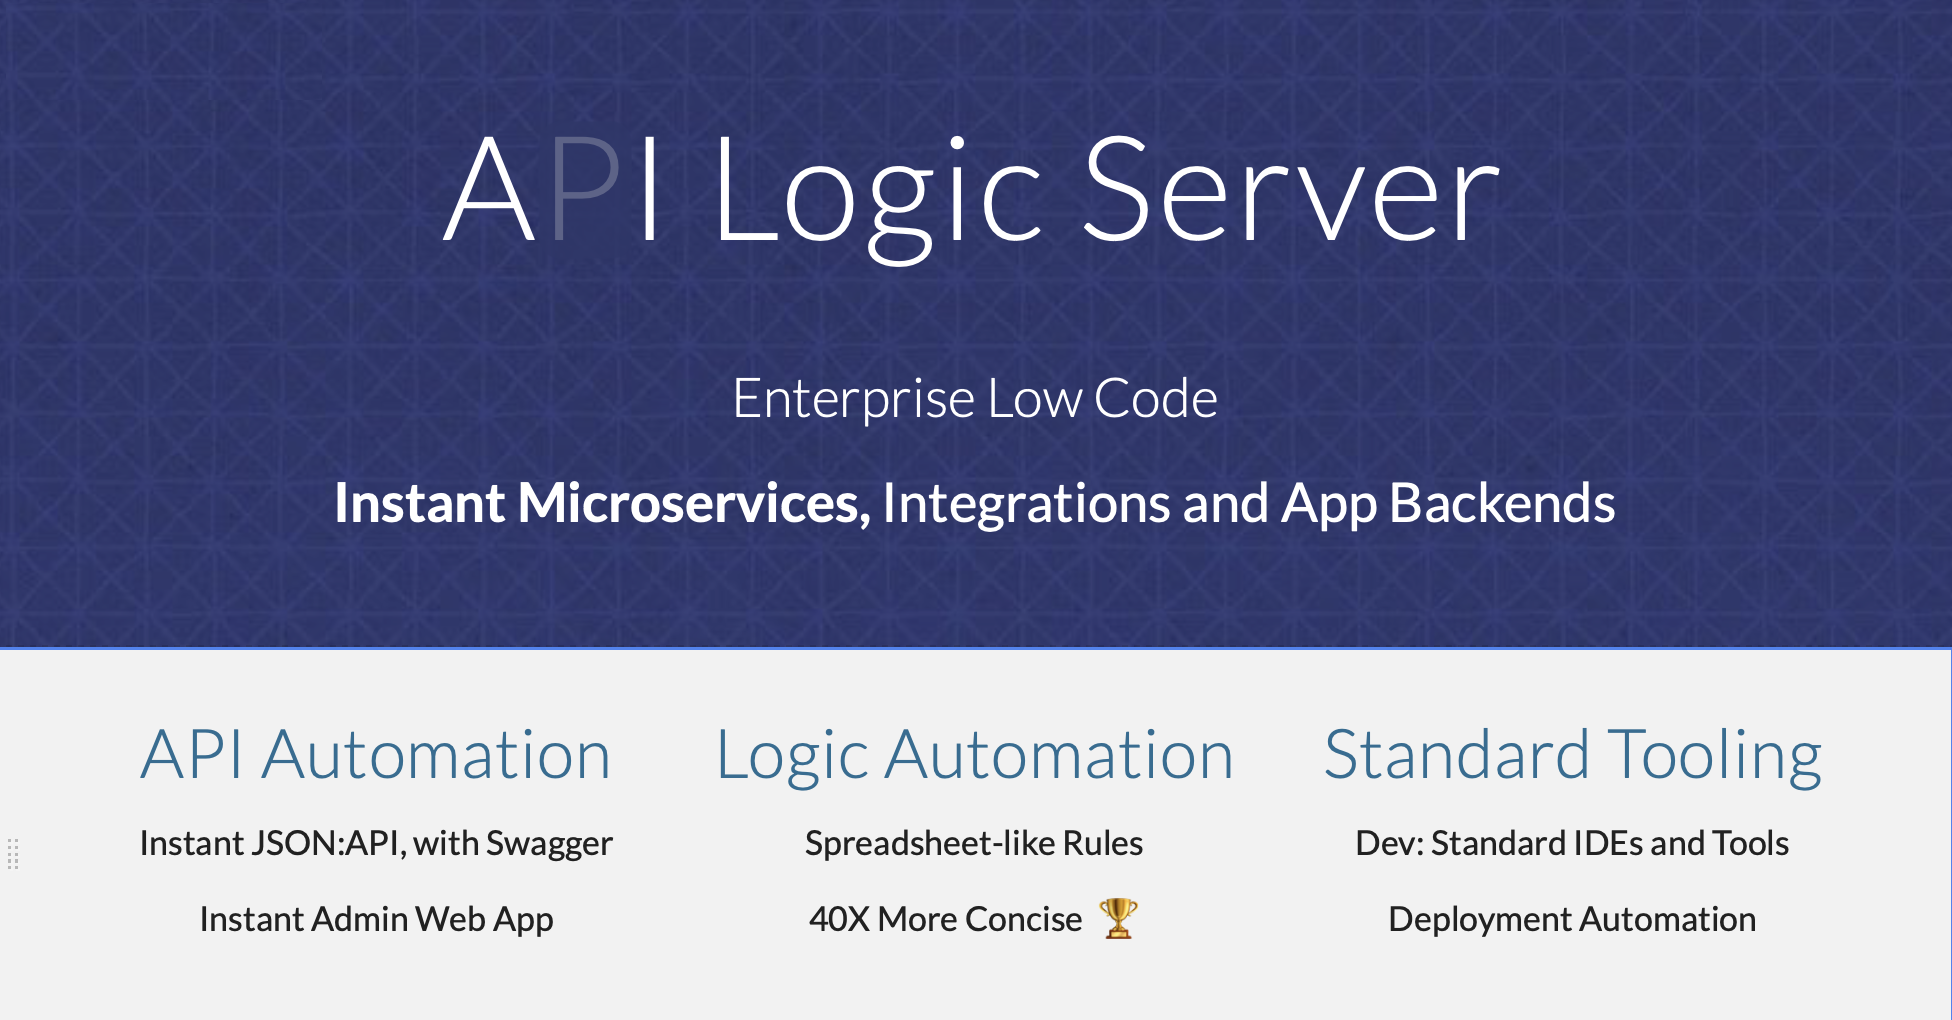
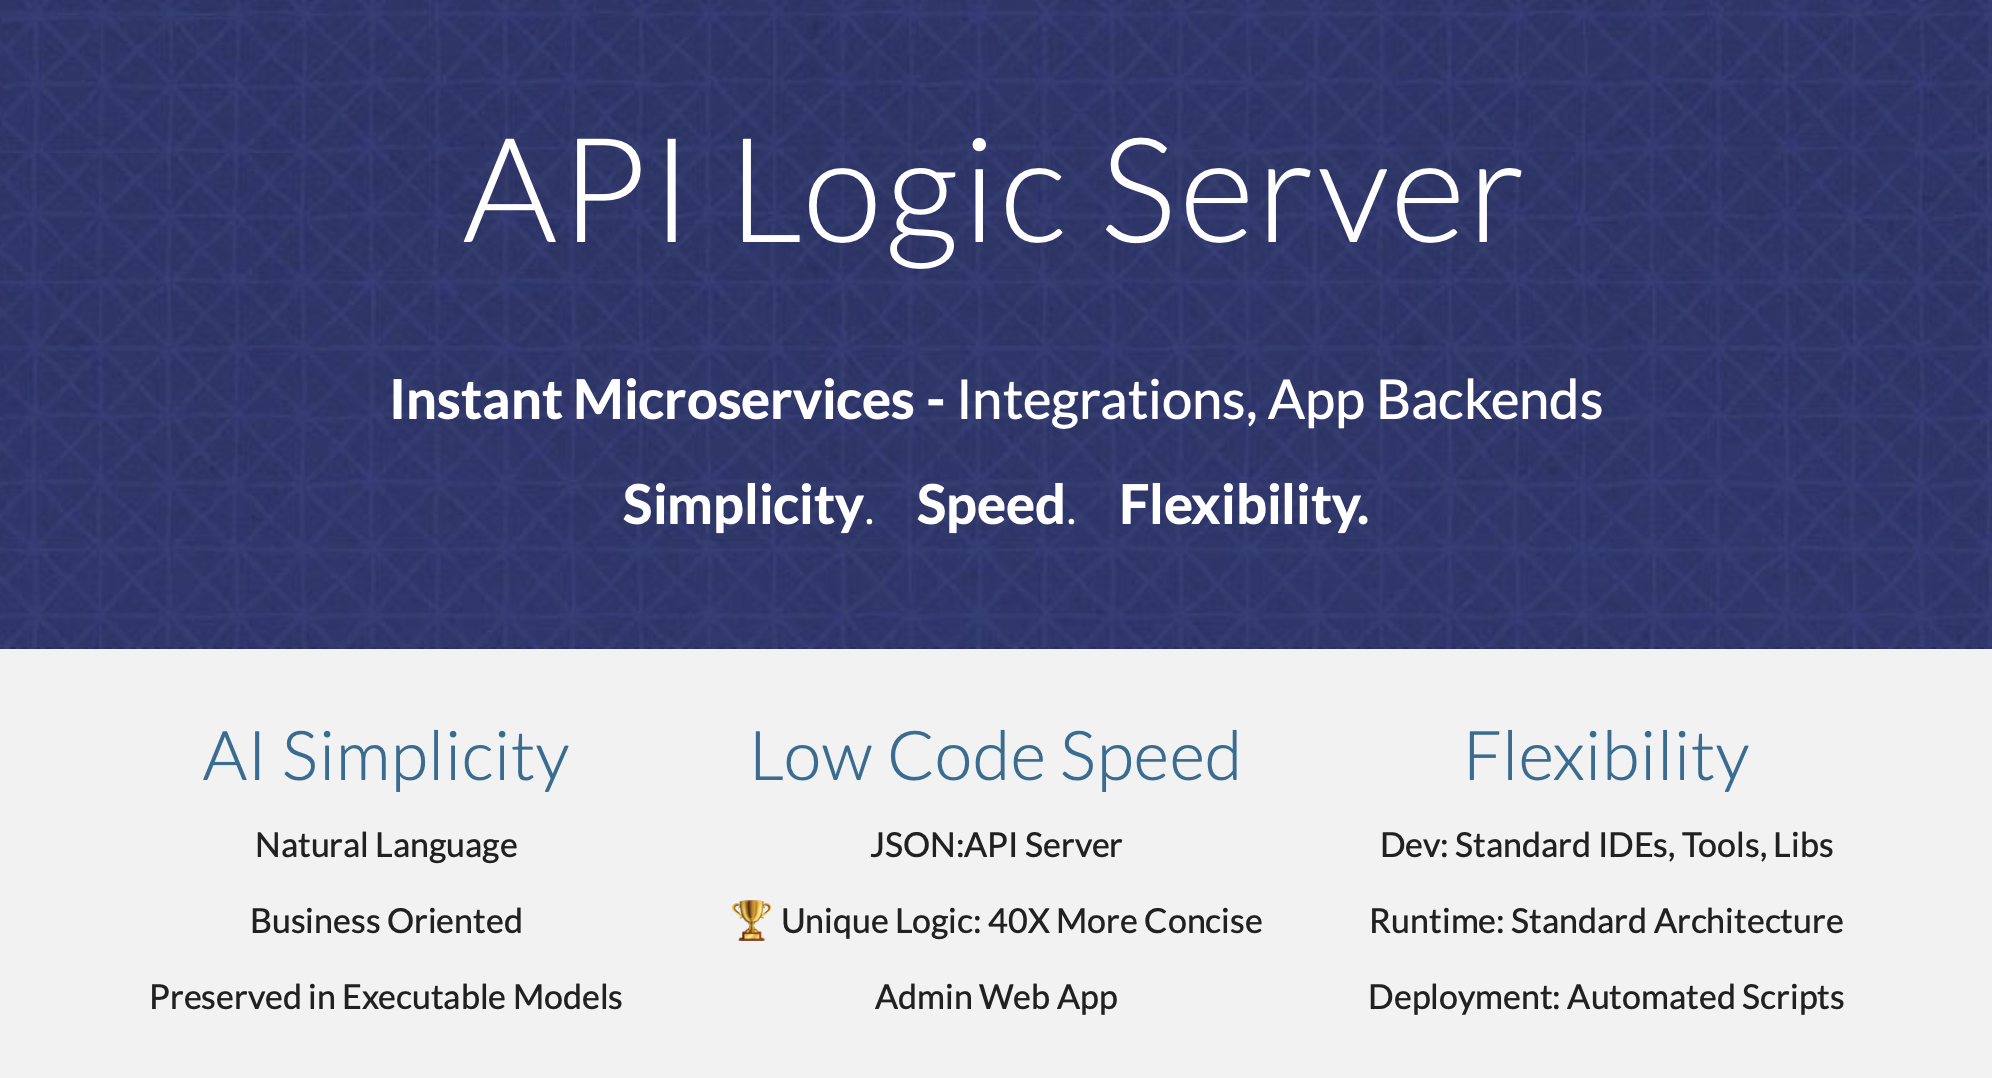
Simplicity, Speed, Flexibility,  FAQs - AI, Strategic

diff --git a/docs/index.md b/docs/index.md
@@ -14,6 +14,66 @@ Description: Instantly Create and Run Database Projects - Flask, APIs, SQLAlchem
 
 [![API Logic Server Intro](images/hero-banner.png)](#instant-evaluation-no-install "Click for instant cloud-based, no-install eval")
 
+# API Logic Server - In Action
+
+## 1. AI Simplicity
+
+To create system, specify it *in business terms:*
+
+<details markdown>
+
+<summary>Create an AI Prompt file named genai_demo.prompt</summary>
+
+```bash title="Create an AI Prompt file named genai_demo.prompt"
+Use SQLAlchemy to create a sqlite database named system/genai/temp/model.sqlite,
+with customers, orders, items and product
+
+Hints: use autonum keys, allow nulls, Decimal types, foreign keys, no check constraints.
+
+Include a notes field for orders.
+
+Create a few rows of only customer and product data.
+
+Enforce the Check Credit requirement (do not generate check constraints):
+1. Customer.balance <= credit_limit
+2. Customer.balance = Sum(Order.amount_total where date_shipped is null)
+3. Order.amount_total = Sum(Item.mount)
+4. Item.amount = quantity * unit_price
+5. Store the Item.unit_price as a copy from Product.unit_price
+```
+&nbsp;
+
+> Note: this is a ***high-level, business-oriented*** description of the system.  You do *not* need to know about, or provide, low-level framework details.
+</details>
+
+&nbsp;
+
+## 2. Low Code Speed
+
+Then, create the project (you can also create from an existing database):
+
+```bash title="Create the project"
+als genai --using=genai_demo.prompt
+```
+
+&nbsp;
+
+### Instant Microservice
+
+The system creates the database, and an executable project providing an API and Admin App.  
+
+![Created Microservice](images/sample-ai/copilot/created-microservice.png)
+
+&nbsp;
+
+## 3. Flexibility of a Framework
+
+You can then customize the project in your IDE.  Here, for example, extend the rules with Python code to send a Kafka message, and use the framework to create a custom endpoint:
+
+![Flexibility of a Framework](images/sample-ai/copilot/genai_cust.png)
+
+&nbsp;
+
 
 &nbsp;
 

diff --git a/docs/FAQ-AI.md b/docs/FAQ-AI.md
@@ -1,0 +1,7 @@
+## TL;DR - AI... with business-oriented models
+
+AI has proven to be a powerful tool for automating function-level coding.  However, creating complete sub-systems is less successful, requiring language input for low-level implementation details.  These require substantial skill (e.g., detailed knowledge of a framework), and result in systems that are difficult to maintain.   
+
+By introducing high-level ***business-oriented language***, it becomes possible to create complete systems.  API Logic Server uses AI to create complete systems from high-level business logic, without requiring detailed language input.  
+
+These systems are then maintained at a high level of abstraction through created executable models.  The resultant systems are easy to maintain, and extend where necessary using standard languages and tools.  This approach is unique in the industry, and has been proven in a wide range of applications.

diff --git a/docs/FAQ-Strategic.md b/docs/FAQ-Strategic.md
@@ -1,0 +1,7 @@
+## TL;DR - a strategic approach to low-code
+
+When you code to a framework, you are coding to a specific set of tools and conventions.  This is a good thing - it provides a common language and approach for developers.  However, it also means that you are locked into that framework, and must code to its conventions.
+
+The same applies to Low Code platforms - they provide a common language and approach, but you are locked into their conventions.
+
+API Logic Server is different - it is based on business oriented models that are technology independent.  This is the only approach that can future-proof your application investment.

diff --git a/docs/FAQ-Frameworks.md b/docs/FAQ-Frameworks.md
@@ -2,7 +2,7 @@
 
 There are many excellent frameworks for developing web apps.  They provide tools for writing code to handle API and application events.
 
-API Logic Server is not a framework - it is _built_ on frameworks (Flask currently, more are possible).  It is a __low-code approach__ for creating customizable microservices - Apps, APIs, _and_ the underlying business logic.
+API Logic Server is not a framework - it is _built_ on frameworks (Flask currently, more are possible).  It is a __low-code approach__ for creating customizable microservices - Apps, APIs, _and (uniquely)_ the underlying business logic.
 
 &nbsp;
 

diff --git a/docs/FAQ-Low-Code.md b/docs/FAQ-Low-Code.md
@@ -2,9 +2,9 @@ API Logic Server is a Low Code approach for creating database systems.
 
 There are many excellent low-code products that focus on User Interfaces.
 
-API Logic Server differs from these with a no-comprimise Enteprise / Developer focus:
+API Logic Server differs from these with a no-compromise Enteprise / Developer focus:
 
-* Strong focus on __backend logic,__ with rules
+* Strong focus on __backend logic,__ with unique rules
 
 * Uses your __existing tooling: IDE. languages, libraries, deployment, etc__
 
